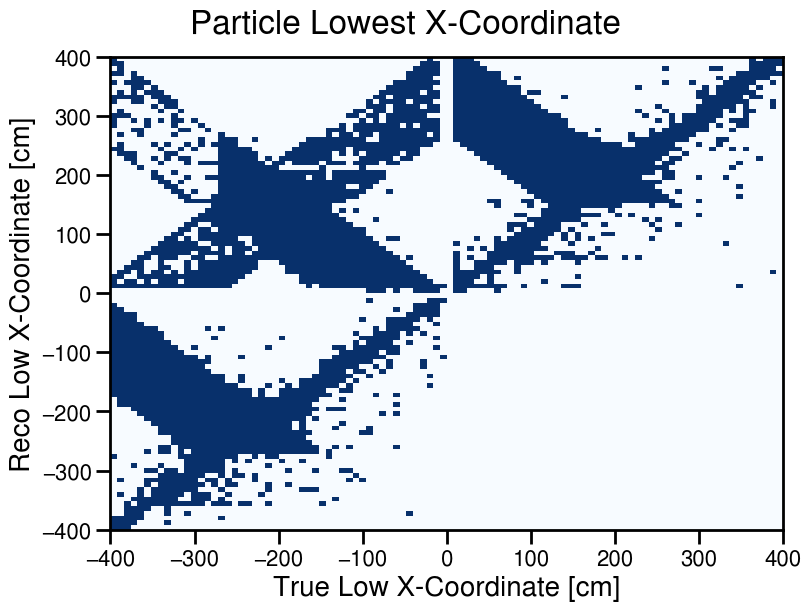
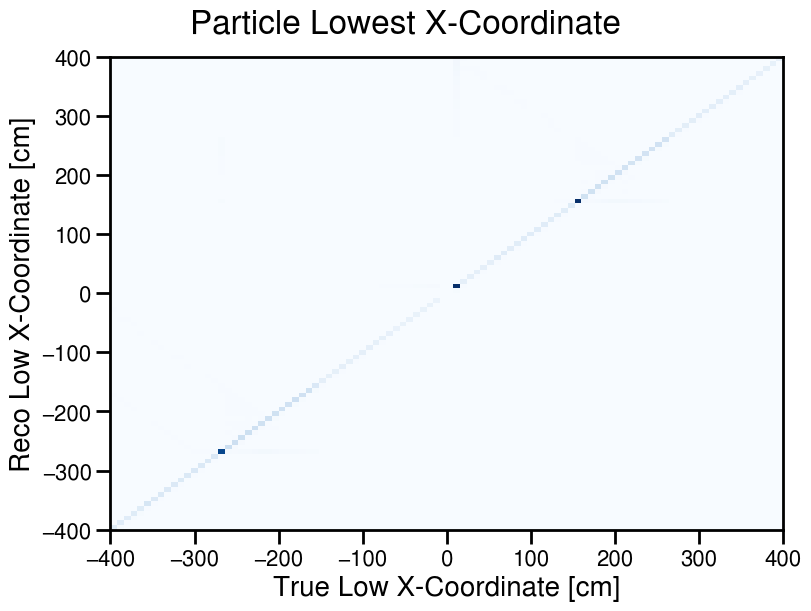
Fixed bug that capped 2D histogram color axis at 1

diff --git a/plotting/plot_funcs.py b/plotting/plot_funcs.py
@@ -188,7 +188,7 @@ def plot_histogram_2d(rf, desc):
 
     contents, xedges, yedges = load_histograms(rf, desc.var)
     x, y = np.meshgrid(xedges, yedges)
-    pc = ax.pcolormesh(x, y, contents, cmap='Blues', vmin=0, vmax=1.0)
+    pc = ax.pcolormesh(x, y, contents, cmap='Blues')
 
     ax.set_xlabel(desc.xlabel)
     ax.set_ylabel(desc.ylabel)
